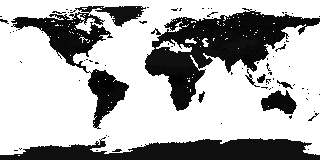
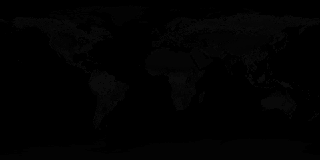
harmonize different biome classifications

diff --git a/src/earth/surface.js b/src/earth/surface.js
@@ -118,7 +118,6 @@ class Surface {
       let results = this._hectorRun(this.emissions);
       let avgGlobalTemps = results['temperature.Tgav'];
       let avgGlobalTemp = avgGlobalTemps[avgGlobalTemps.length - 1];
-      console.log(`avgGlobalTemp: ${avgGlobalTemp}`);
 
       // Calculate biome changes
       this._surface.update_biomes(avgGlobalTemp);

diff --git a/engine/src/surface.rs b/engine/src/surface.rs
@@ -12,33 +12,27 @@ const RADIUS: usize = 3;
 const INTENSITY: f32 = 25.;
 const BASE_TEMP: f32 = 15.;
 
-
-// Biome colors
-const COLORS: [Color; 17] = [
-  (21,120,194),  // Water Bodies
-  (27,100,6),    // Evergreen Needleleaf Forests
-  (55,172,81),   // Evergreen Broadleaf Forests
-  (27,114,24),   // Deciduous Needleleaf Forests
-  (10,120,70),   // Deciduous Broadleaf Forests
-  (23,112,57),   // Mixed Forests
-  (127,171,98),  // Closed Shrublands
-  (178,130,44),  // Open Shrublands
-  (55,180,92),   // Woody Savannas
-  (239,191,57),  // Savannas
-  (57,166,100),  // Grasslands
-  (78,84,32),    // Permanent Wetlands
-  (200,247,142), // Croplands
-  (171,234,226), // Urban and Built-up Lands
-  (219,225,120), // Cropland/Natural Vegetation Mosaics
-  (201,225,244), // Permanent Snow and Ice
-  (234,171,68),  // Barren
-];
-
 // Technically should be u8
 // but we need larger numbers,
 // which we later divide down to fit u8
 type BigColor = (usize, usize, usize);
 type Color = (u8, u8, u8);
+
+// Biome colors
+const COLORS: [Color; 12] = [
+  (21,120,194),  // Water Bodies
+  (180,194,192), // Urban and Built-up Lands
+  (200,247,142), // Croplands
+  (201,225,244), // Tundra
+  (106,196,106), // Temperate grassland/desert
+  (234,171,68),  // Subtropical desert
+  (185,232,118), // Tropical seasonal forest/savanna
+  (10,120,70),   // Boreal forest
+  (27,114,24),   // Temperate seasonal forest
+  (127,171,98),  // Woodland/shrubland
+  (55,172,81),   // Temperate rain forest
+  (27,100,6),    // Tropical rain forest
+];
 
 #[wasm_bindgen]
 pub struct EarthSurface {
@@ -108,7 +102,7 @@ impl EarthSurface {
                 // 1 kg/m2/s = 1 mm/s
                 // 31536000 seconds per year, which yields mm/year
                 let precip_cm_year = precip * 31536000. / 10.;
-                let label = biome_for_temp(biome, temp, precip_cm_year, &self.biome_lookup);
+                let label = biome_for_temp(biome, temp, 0., &self.biome_lookup);
                 if *biome != label {
                     *biome = label;
                     let color = color_for_biome(label as usize);
@@ -131,17 +125,20 @@ impl EarthSurface {
 
 // The biome changing logic
 fn biome_for_temp(biome: &mut BiomeLabel, temp: f32, precip: f32, lookup: &[BiomeLabel]) -> BiomeLabel {
-    if *biome == 255 { // Water
-        255
-    } else {
-        // Clamp to known range
-        let temp_ = temp.clamp(BIOME_TEMP_MIN, BIOME_TEMP_MAX);
-        let precip_ = precip.clamp(BIOME_PRECIP_MIN, BIOME_PRECIP_MAX);
+    match *biome {
+        0 => 0, // Water
+        1 => 1, // Urban & built-up
+        2 => 2, // Croplands,
+        _ => {
+            // Clamp to known range
+            let temp_ = temp.clamp(BIOME_TEMP_MIN, BIOME_TEMP_MAX);
+            let precip_ = precip.clamp(BIOME_PRECIP_MIN, BIOME_PRECIP_MAX);
 
-        let x = ((temp_ - BIOME_TEMP_MIN) / BIOME_TEMP_STEP).floor() as usize;
-        let y = ((precip_ - BIOME_PRECIP_MIN) / BIOME_PRECIP_STEP).floor() as usize;
-        let idx = y * BIOME_SIZE + x;
-        lookup[idx]
+            let x = ((temp_ - BIOME_TEMP_MIN) / BIOME_TEMP_STEP).floor() as usize;
+            let y = ((precip_ - BIOME_PRECIP_MIN) / BIOME_PRECIP_STEP).floor() as usize;
+            let idx = y * BIOME_SIZE + x;
+            lookup[idx]
+        }
     }
 }
 
@@ -153,11 +150,7 @@ fn scale_idx(idx: usize, width: usize, scale: usize) -> usize {
 }
 
 fn color_for_biome(label: usize) -> Color {
-    if label == 255 {
-        COLORS[0]
-    } else {
-        COLORS[label]
-    }
+    COLORS[label]
 }
 
 // Convert biome labels to RGB

diff --git a/assets/src/biome_lookup/01_convert.py b/assets/src/biome_lookup/01_convert.py
@@ -36,17 +36,23 @@ biome_to_colors = {
     'Temperate rain forest': '#75A95E',
     'Tropical rain forest': '#317A22',
 }
+
+# Reserve:
+# - 0 for water
+# - 1 for cropland
+# - 2 for urban/built-up lands
 biome_to_labels = {
-    'Tundra': 0,
-    'Temperate grassland/desert': 1,
-    'Subtropical desert': 2,
-    'Tropical seasonal forest/savanna': 3,
-    'Boreal forest': 4,
-    'Temperate seasonal forest': 5,
-    'Woodland/shrubland': 6,
-    'Temperate rain forest': 7,
-    'Tropical rain forest': 8,
+    'Tundra': 3,
+    'Temperate grassland/desert': 4,
+    'Subtropical desert': 5,
+    'Tropical seasonal forest/savanna': 6,
+    'Boreal forest': 7,
+    'Temperate seasonal forest': 8,
+    'Woodland/shrubland': 9,
+    'Temperate rain forest': 10,
+    'Tropical rain forest': 11,
 }
+labels_to_biome = {v: k for k, v in biome_to_labels.items()}
 
 # Build the biome temp/precip range polygons
 polys = []
@@ -104,6 +110,7 @@ for y_ in range(n_squares_per_side):
 plt.xlabel(x_var)
 plt.ylabel(y_var)
 plt.show()
+plt.close()
 
 def lookup_biome(temp, precip):
     # Can either throw:
@@ -124,6 +131,39 @@ def lookup_biome(temp, precip):
 # 255 for None
 labels = np.array([biome_to_labels[biome] if biome is not None else 255 for biome in mapping])
 labels = np.reshape(labels, (n_squares_per_side, n_squares_per_side))
+
+# Extend the biome labels to fill the entire image,
+# because otherwise the "empty" (255) values are interpreted
+# as water labels.
+# Probably a nicer way of doing this...
+for row_idx, row in enumerate(labels):
+    valid_idxs = np.argwhere(row != 255).flatten()
+    for idx, v in enumerate(row):
+        if v == 255:
+            # Fill with closest non-255 value.
+            # First look to closest non-255 value in the same row and use that.
+            if len(valid_idxs) > 0:
+                closest_idx = min(valid_idxs, key=lambda i: abs(idx-i))
+                row[idx] = row[closest_idx]
+
+            # If the entire row is 255 values, then look to the closest non-255
+            # value in the same column and use that.
+            else:
+                valid_col_idxs = np.argwhere(labels[:,idx] != 255).flatten()
+                closest_idx = min(valid_col_idxs, key=lambda i: abs(row_idx-i))
+                row[idx] = labels[:,idx][closest_idx]
+
+# Show extended version
+size = 20
+for y, row in enumerate(labels):
+    for x, label in enumerate(row):
+        pts = [(x, y), (x, y+size), (x+size, y+size), (x+size, y)]
+        rect = Polygon(pts)
+        color = biome_to_colors[labels_to_biome[label]]
+        plt.fill(*rect.exterior.xy, color,
+                alpha=0.5,
+                linewidth=0.25, edgecolor='#000000')
+# plt.show()
 
 im = Image.fromarray(labels.astype('uint8'), 'L')
 im.save('/tmp/biomes.png')

diff --git a/assets/src/landuse/03_scale_and_remap.py b/assets/src/landuse/03_scale_and_remap.py
@@ -58,6 +58,38 @@ target_height = target_width/2
 #     0: 0
 # }
 
+# Remap the IGBP land use labels
+# to be consistent with biome lookup's biomes.
+# This is a very inexact/inaccurate mapping...but not
+# sure if it can be much better.
+# See the included `igbp_land_use.png`.
+#
+# Reserve:
+# - 0 for water
+# - 1 for cropland
+# - 2 for urban/built-up lands
+remapping = {
+    17: 0,  # Water Bodies
+    255: 0, # Unclassified usually water
+    12: 1,  # Croplands
+    14: 1,  # Croplands
+    13: 2,  # Urban and built-up lands
+    15: 3,  # Permanent Snow and Ice -> Tundra
+    10: 4,  # Grasslands -> Temperate grassland/desert
+    16: 5,  # Barren -> Subtropical desert
+    9: 6,   # Savannas -> Tropical seasonal forest/savanna
+    8: 7,   # Woody Savannas -> Boreal forest
+    1: 7,   # Evergreen Needleleaf Forests -> Boreal forest
+    4: 8,   # Deciduous Broadleaf Forests -> Temperate seasonal forest
+    3: 8,   # Deciduous Needleless Forests -> Temperate seasonal forest
+    6: 9,   # Closed Shrublands -> Woodland/shrubland
+    7: 9,   # Open Shrublands -> Woodland/shrubland
+    5: 10,  # Mixed Forests -> Temperate rain forest
+    11: 10, # Permanent Wetlands -> Temperate rain forest
+    2: 11,  # Evergreen Broadleaf Forests -> Tropical rain forest
+}
+
+
 def to_image(data, outpath, colormap=None, normalize=True):
     data = reshape_as_image(data)
     if data.dtype == np.uint8:
@@ -100,8 +132,14 @@ def remap(dataset, mapping, outpath):
     # Remap land classification labels
     # so we only have cropland and urban/built-up development
     data = dataset.read()
+    idxs = []
     for key, val in mapping.items():
-        data[data == key] = val
+        idxs.append((
+            np.where(data == key),
+            val
+        ))
+    for idx, val in idxs:
+        data[idx] = val
 
     # Save remapped geotiff
     kwargs = dataset.meta.copy()
@@ -154,8 +192,8 @@ if __name__ == '__main__':
         dataset = rasterio.open(outname)
         im = to_image(dataset.read(), '/tmp/mosaic_scaled.png')
 
-        # Remap water to white (which is unclassified, which is mostly if not entirely water)
-        remapped_dataset = remap(dataset, {17: 255}, '/tmp/grid_landuse.tif')
+        # Apply remapping
+        remapped_dataset = remap(dataset, remapping, '/tmp/grid_landuse.tif')
         im = to_image(remapped_dataset.read(), '/tmp/grid_landuse.png', normalize=False)
         subprocess.run(['pngquant', '/tmp/grid_landuse.png', '--speed', '1', '--force', '-o', 'out/grid_landuse.png'])
 
